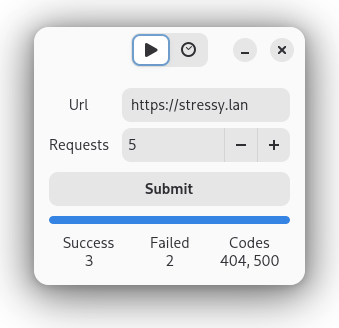
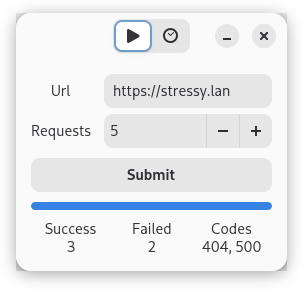
fix ss2

diff --git a/src/stressy/window.py b/src/stressy/window.py
@@ -6,7 +6,7 @@ from stressy.history_page import HistoryPage
 from stressy.run_page import RunPage
 
 
-class Win(Adw.ApplicationWindow):
+class MainWindow(Adw.ApplicationWindow):
     def __init__(self, worker_loop: AbstractEventLoop, *args, **kwargs):
         super().__init__(*args, **kwargs)
         self.set_size_request(width=200, height=-1)
@@ -44,5 +44,5 @@ class StressyApp(Adw.Application):
         self._worker_loop = worker_loop
 
     def on_activate(self, app):
-        self.win = Win(self._worker_loop, application=app)
+        self.win = MainWindow(self._worker_loop, application=app)
         self.win.present()
